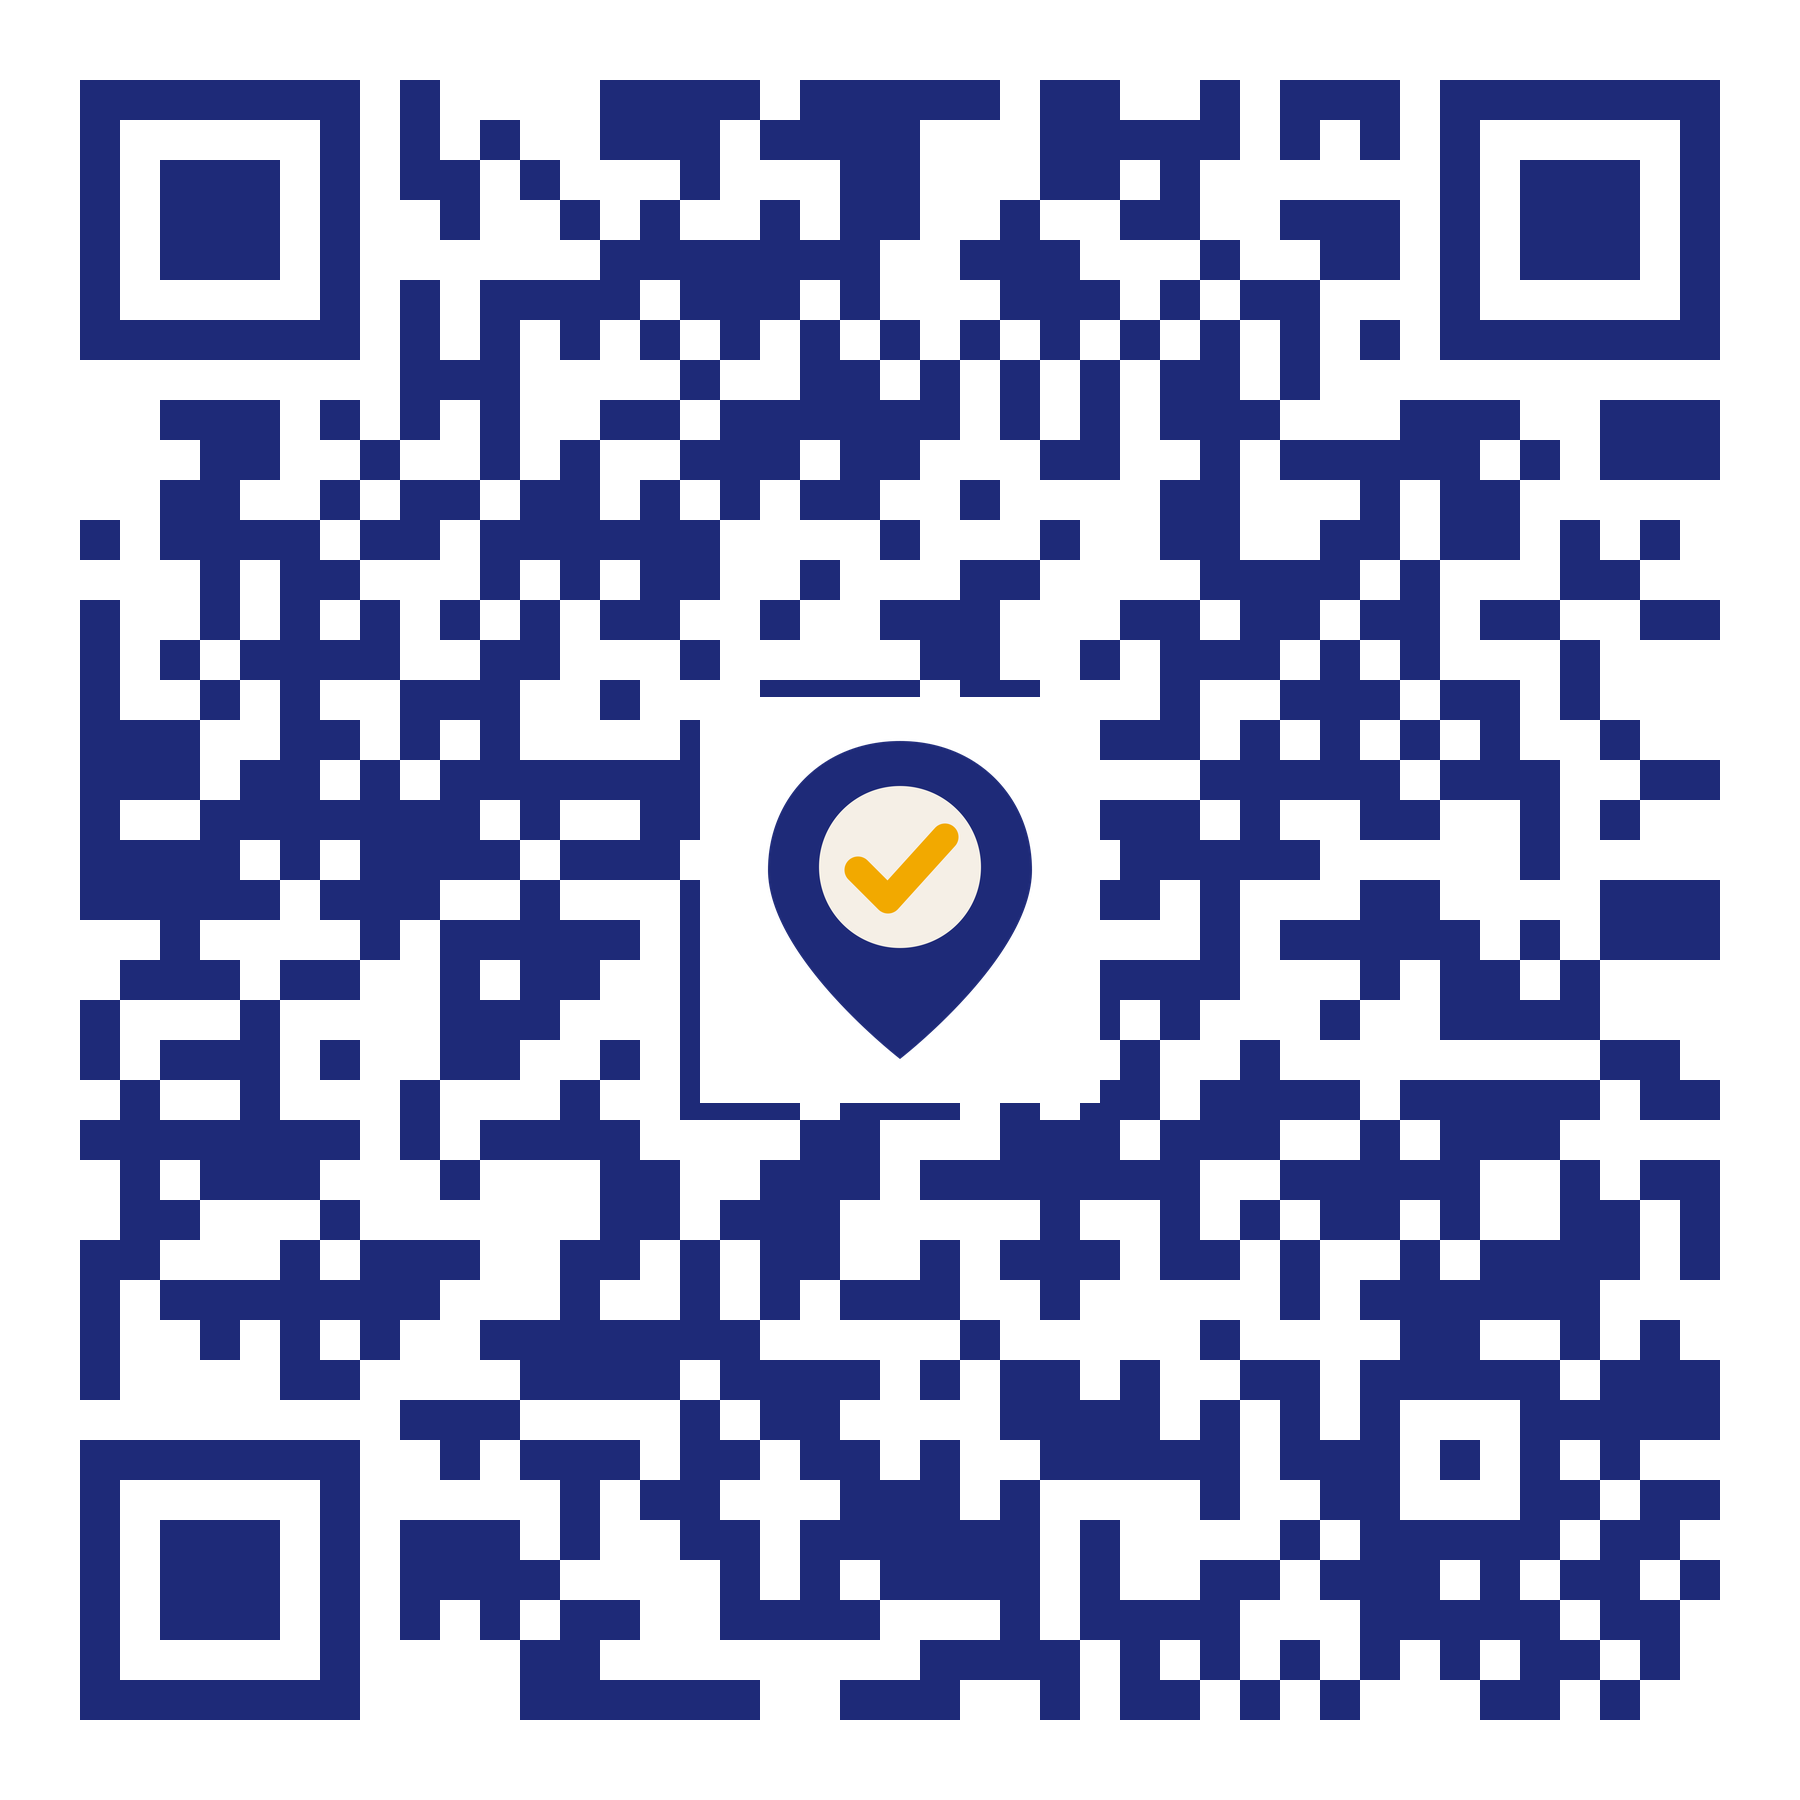
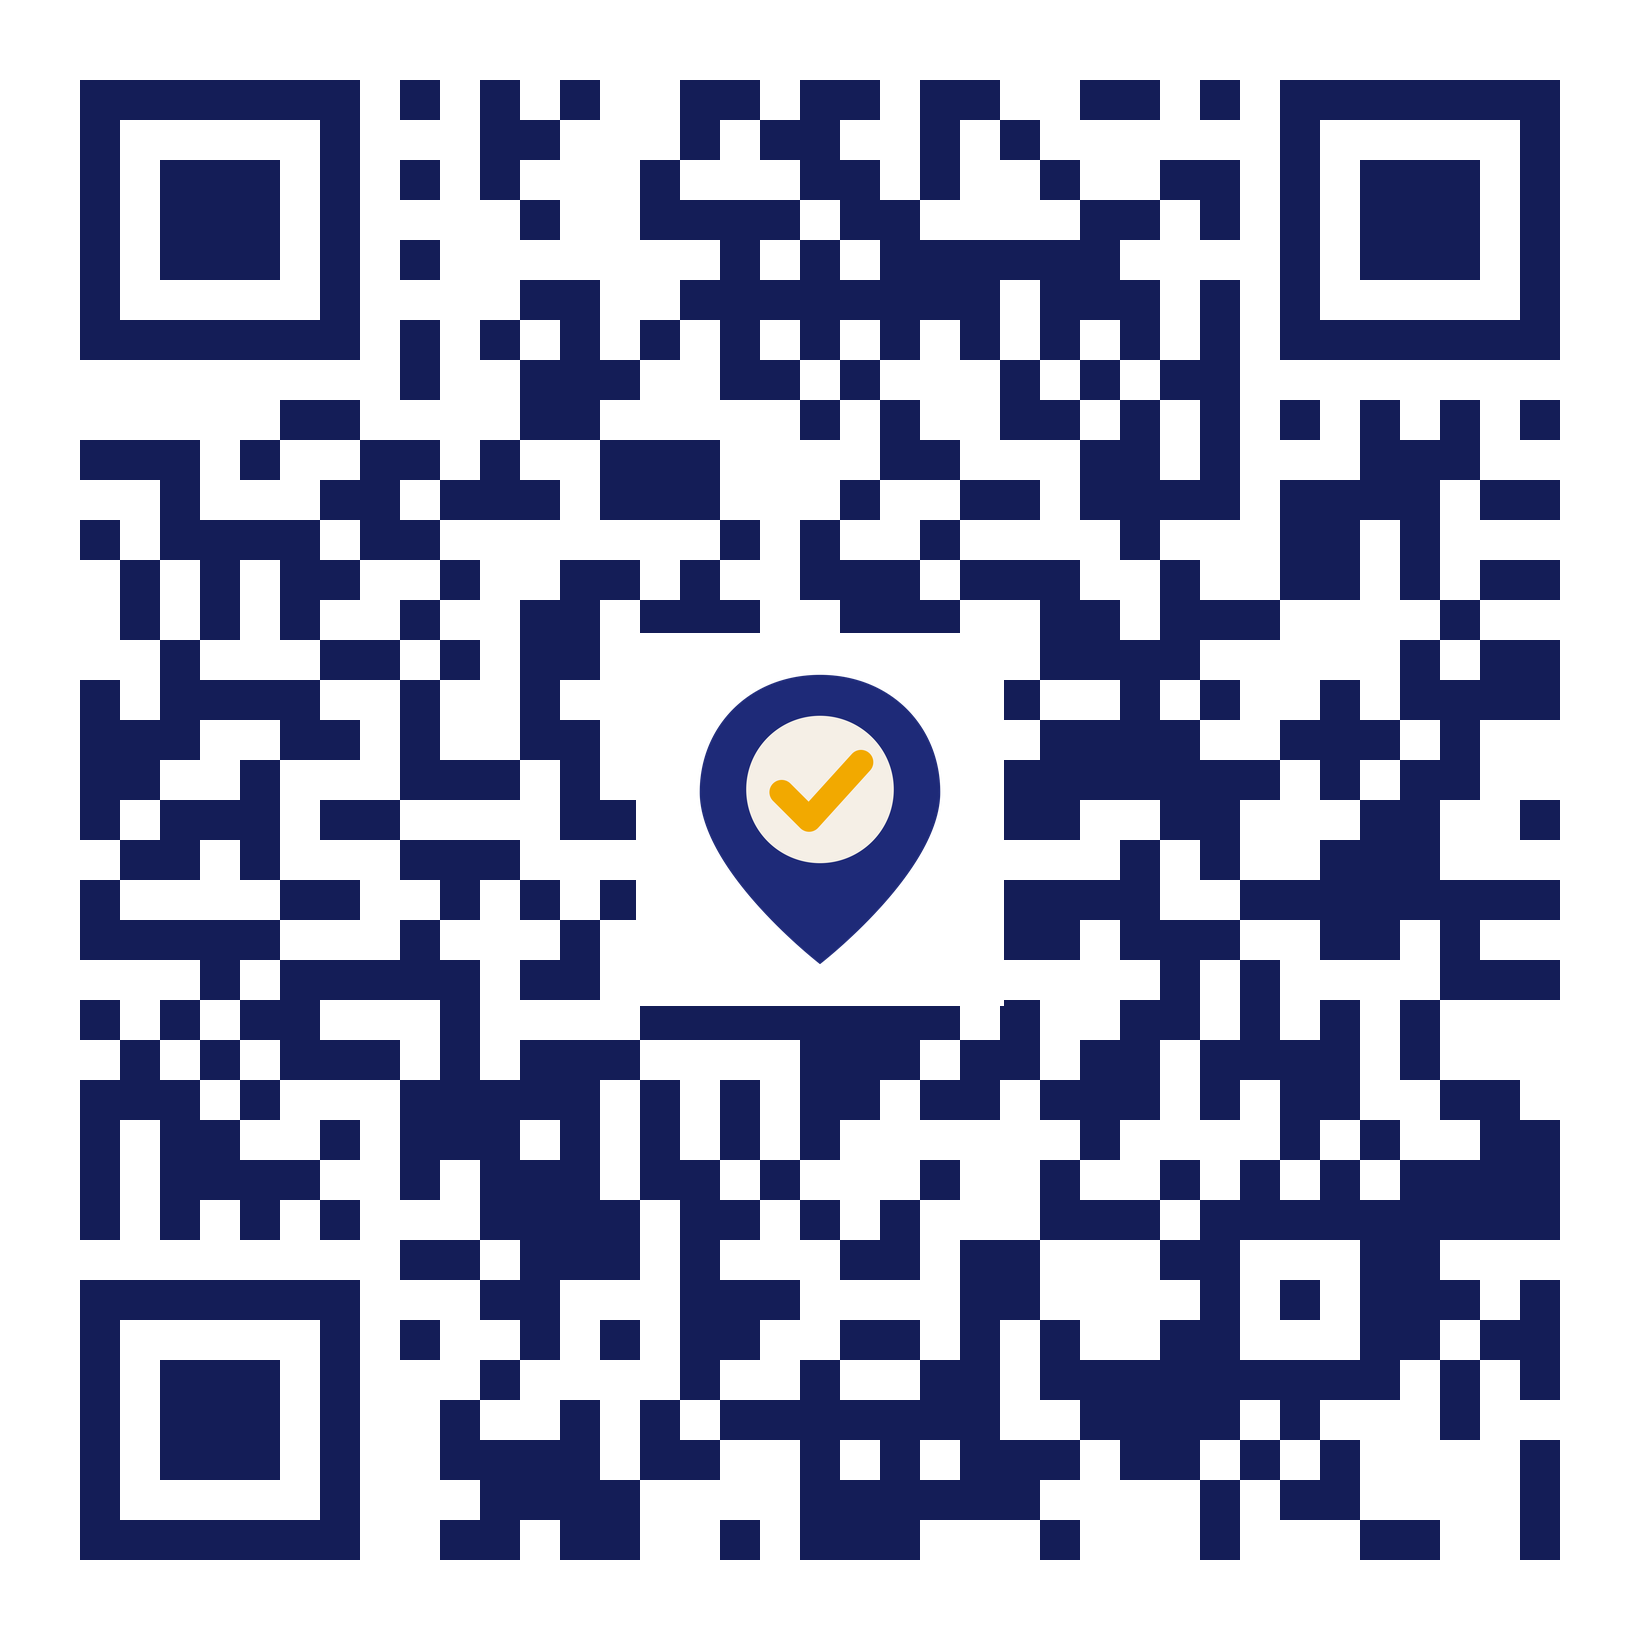
QR code et vidéo pointant vers le site Vercel
Claude-Session: https://claude.ai/code/session_01XQxqyTjG1hBjKq7rkRDs7Q

diff --git a/README.md b/README.md
@@ -7,8 +7,8 @@ Données fictives créées pour l'atelier Challenge IA.
 
 ## Mise en ligne avec GitHub Pages
 Settings › Pages › Source : « Deploy from a branch », branche `main`, dossier `/ (root)`.
-Le site est ensuite disponible sur `https://belamriamina-cpu.github.io/kaina/`.
+Site en ligne : https://kaina-z3ld.vercel.app/
 
 ## QR code du stand
-- `qr/qr-landing.png` : QR code vers https://belamriamina-cpu.github.io/kaina/landing/
+- `qr/qr-landing.png` : QR code vers https://kaina-z3ld.vercel.app/landing/
 - `qr/affiche-stand-B12.png` : affiche prête à imprimer
